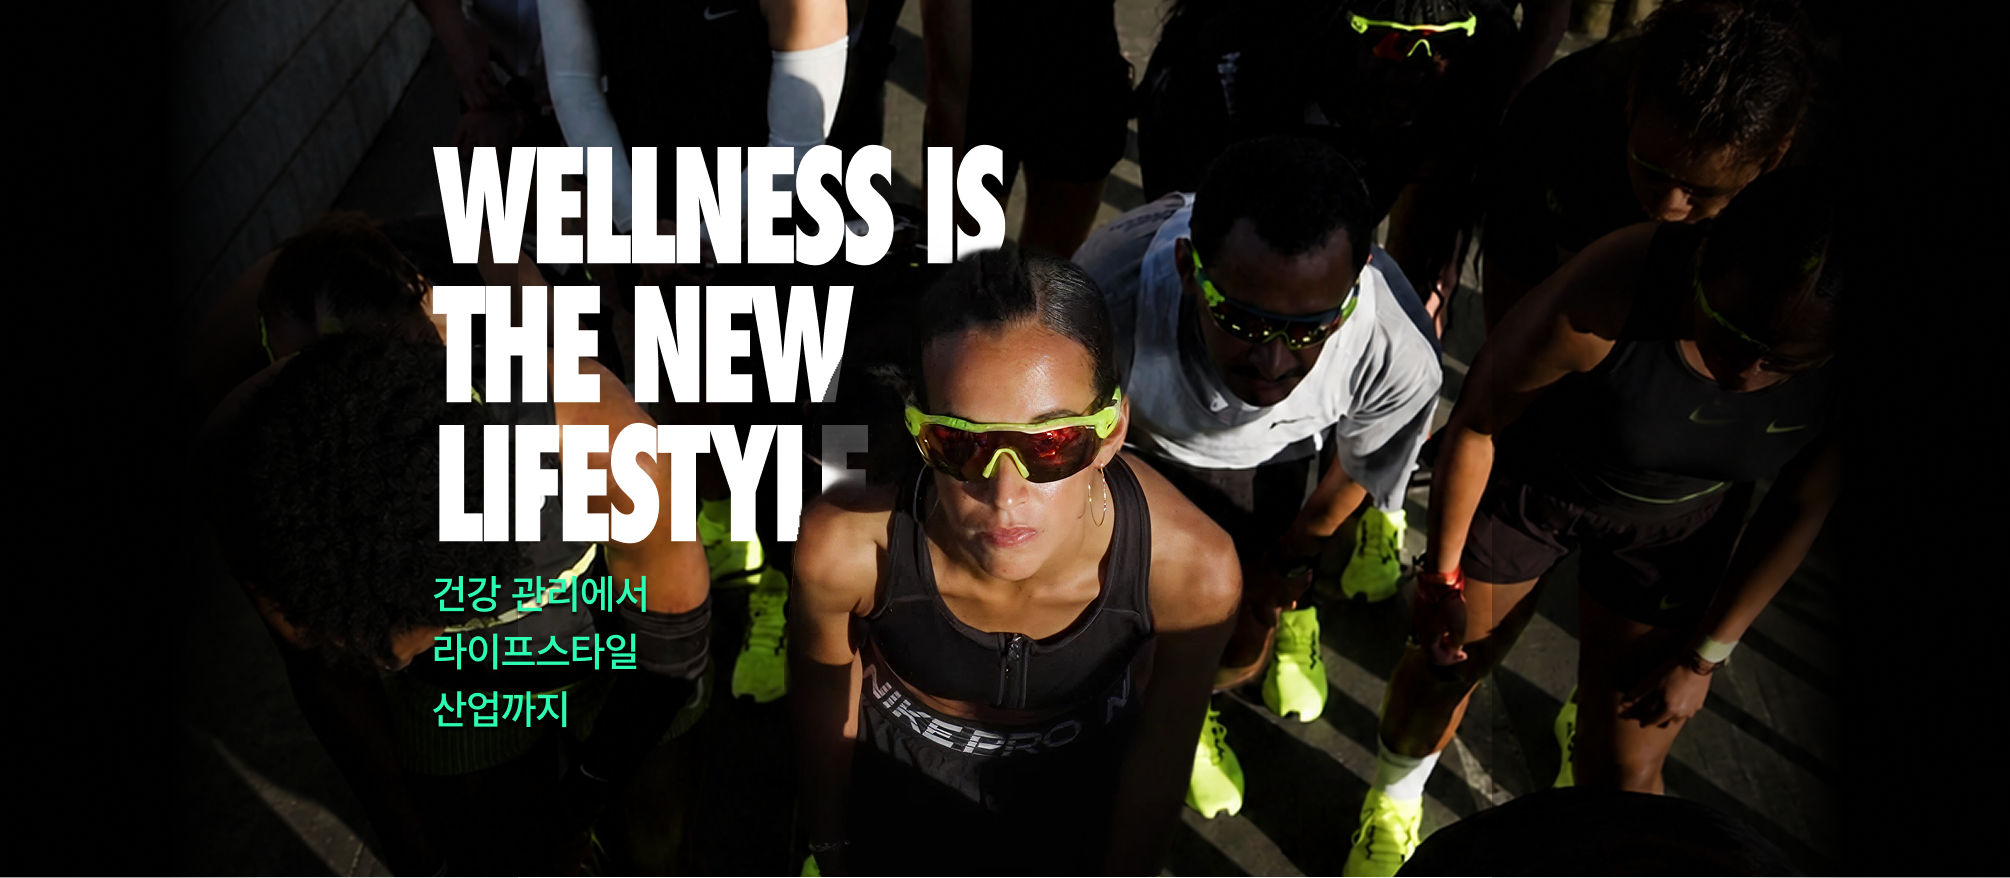
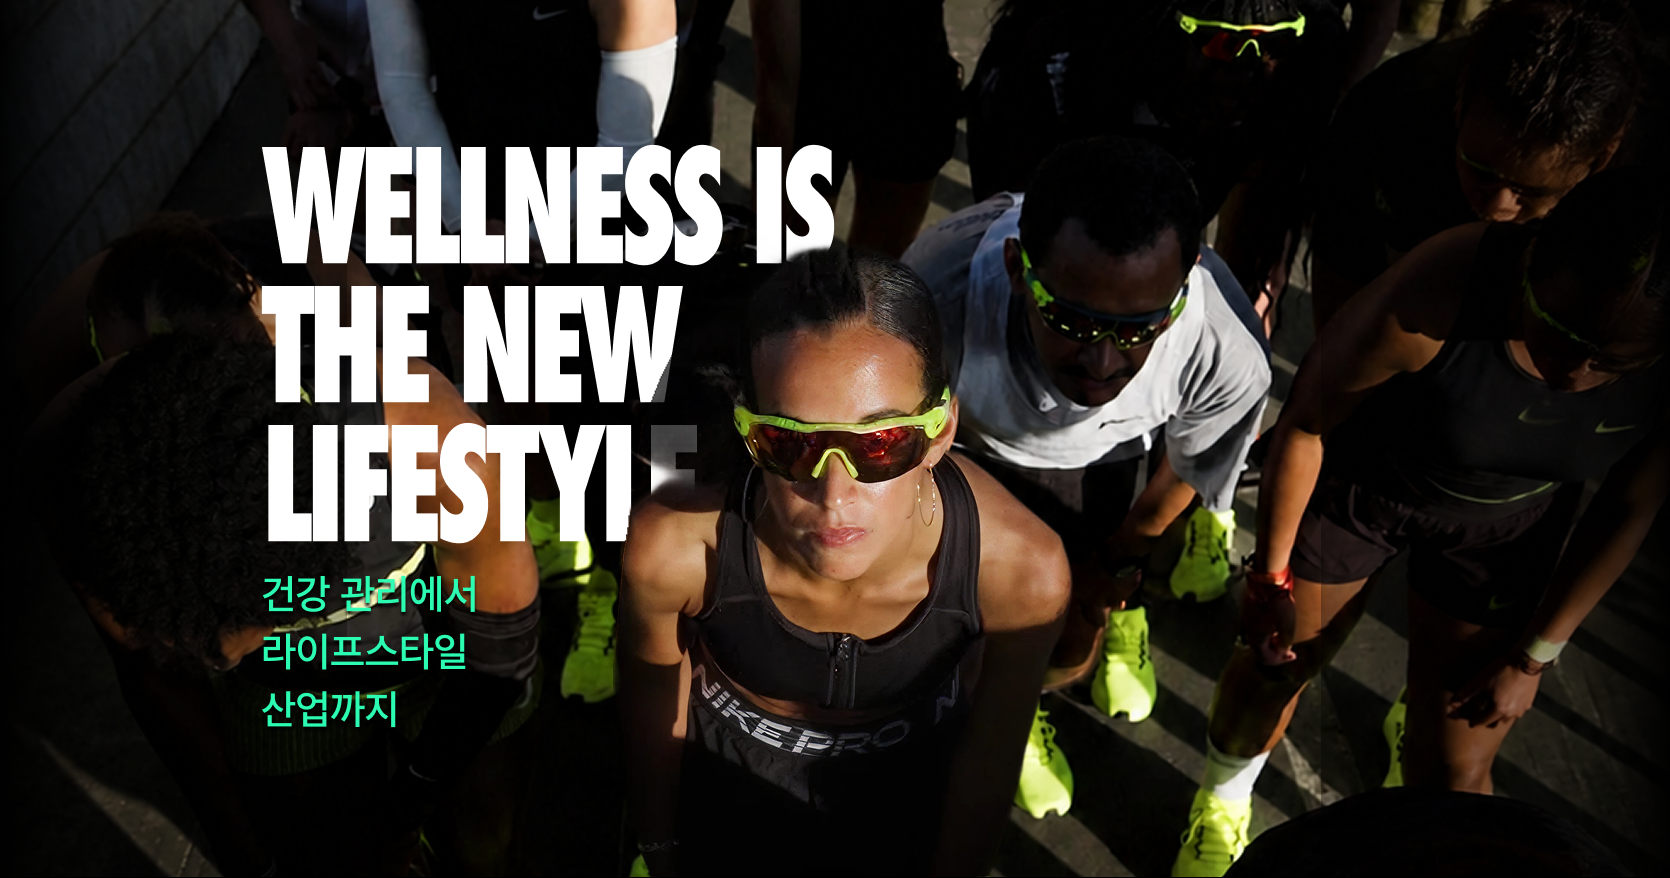
Remove black side borders from background image and shift lower content down by 50px

diff --git a/style.css b/style.css
@@ -542,7 +542,10 @@ body {
 }
 
 #history-hero-block { height: 900px; }
-#history-intro-block { height: 130px; }
+#history-intro-block {
+    height: 130px;
+    margin-top: 50px;
+}
 #history-bridge-block { height: 340px; }
 #history-2000s-block { height: 1260px; }
 #history-2010s-block { height: 820px; }
@@ -1505,7 +1508,7 @@ body {
     left: 50%;
     transform: translateX(-50%);
     top: 0;
-    width: 2010px;
+    width: 1670px;
     height: 878px;
     object-fit: cover;
 }